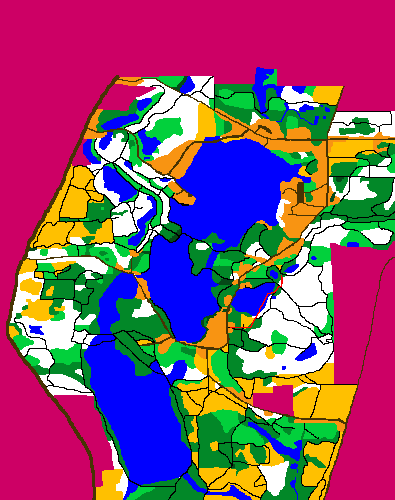
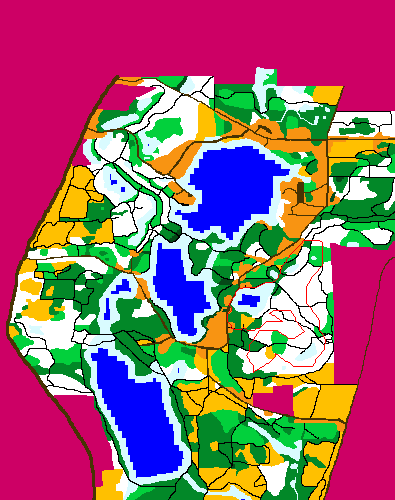
Finished!!

diff --git a/lab1/lab1.py b/lab1/lab1.py
@@ -3,7 +3,7 @@ from PIL import Image
 from PIL import ImageDraw
 import enum
 import sys
-import time
+import math
 
 
 class Terrain(enum.Enum):
@@ -17,7 +17,8 @@ class Terrain(enum.Enum):
     Paved_Road = (71, 51, 3, 255)
     Foot_path = (0, 0, 0, 255)
     Out_of_Bounds = (205, 0, 101, 255)
-    Ice_Mud = (217, 251, 255, 255)
+    Ice = (217, 251, 255, 255)
+    Mud = (173, 127, 0, 255)
 
 
 class Constants(enum.Enum):
@@ -33,9 +34,13 @@ class Node:
         self.g = 0
         self.h = 0
         self.f = 0
+        self.distance = 0
 
     def __eq__(self, other):
         return self.position == other.position
+
+    def __lt__(self, other):
+        return self.f < other.f
 
 
 # function to return the effect the terrain has on movement
@@ -68,13 +73,17 @@ def check_modifier(rgb_color):
     elif rgb_color == Terrain.Foot_path.value:
         return 0.9
     # you can run in this but like you're trying not to fall - 45%
-    elif rgb_color == Terrain.Ice_Mud.value:
+    elif rgb_color == Terrain.Ice.value:
+        return 0.45
+    # same as ice
+    elif rgb_color == Terrain.Mud.value:
         return 0.45
     # out of bounds - 0%
     else:
         return 0.0
 
 
+# function to store elevation in a 2d array
 def store_elevation(fp):
     wfile = open(fp, 'r')
     elevation = list()
@@ -88,86 +97,202 @@ def store_elevation(fp):
     return elevation
 
 
+# function to store the points to visit
 def store_waypoints(fp):
     wfile = open(fp, 'r')
     points = list()
     for line in wfile:
-        temp = list()
         word = line[:-1]
         values = word.split()
         x = int(values[0])
         y = int(values[1])
-        temp.append(x)
-        temp.append(y)
-        points.append(temp)
+        points.append((x,y))
     return points
 
 
-def calculate_g_cost(image, point1, point2, elevation):
+# function to add altercations to the map based on season
+def seasons(image, season, elevation, modifier):
+    if season == "summer":
+        return image
+    draw = ImageDraw.Draw(image)
+
+    visited = list()
+    for i in range(395):
+        temp = list()
+        for ii in range(500):
+            temp.append(False)
+        visited.append(temp)
+
+    reached_nodes = queue.Queue()
+
+    for x in range(395):
+        for y in range(500):
+            if visited[x][y]:
+                continue
+            rgb = image.getpixel((x, y))
+            if season == "winter":
+                if not check_modifier(rgb) == 0.3:
+                    new_node = Node(None, (x, y))
+                    new_node.distance = 0
+                    reached_nodes.put(new_node)
+                    visited[x][y] = True
+                    while not reached_nodes.empty():
+                        s = reached_nodes.get()
+                        for new_position in [(-1, 0), (0, 1), (1, 0), (0, -1)]:
+
+                            xPos = new_position[0] + s.position[0]
+                            if xPos < 0 or xPos >= 395:
+                                continue
+
+                            yPos = new_position[1] + s.position[1]
+                            if yPos < 0 or yPos >= 500:
+                                continue
+
+                            if visited[xPos][yPos]:
+                                continue
+
+                            rgb = image.getpixel((xPos, yPos))
+                            if not check_modifier(rgb) == 0.3 or rgb == Terrain.Out_of_Bounds.value:
+                                continue
+
+                            if s.distance == 7:
+                                continue
+
+                            new_node = Node(None, (xPos, yPos))
+                            new_node.distance = s.distance + 1
+                            reached_nodes.put(new_node)
+                            visited[xPos][yPos] = True
+                            draw.point(new_node.position, fill=Terrain.Ice.value)
+
+            elif season == "fall":
+                if rgb == Terrain.Easy_Forest.value:
+                    for new_position in [(-1, 0), (0, 1), (1, 0), (0, -1), (1, 1), (-1, -1), (-1, 1), (1, -1)]:
+
+                        xPos = new_position[0] + x
+                        if xPos < 0 or xPos >= 395:
+                            continue
+
+                        yPos = new_position[1] + y
+                        if yPos < 0 or yPos >= 500:
+                            continue
+
+                        rgb = image.getpixel((xPos, yPos))
+                        if rgb == Terrain.Easy_Forest.value:
+                            continue
+
+                        modifier[xPos][yPos] = 0.5
+
+            elif season == "spring":
+                if check_modifier(rgb) == 0.3:
+                    new_node = Node(None, (x, y))
+                    new_node.distance = 0
+                    reached_nodes.put(new_node)
+                    visited[x][y] = True
+                    while not reached_nodes.empty():
+                        s = reached_nodes.get()
+                        for new_position in [(-1, 0), (0, 1), (1, 0), (0, -1)]:
+
+                            xPos = new_position[0] + s.position[0]
+                            if xPos < 0 or xPos >= 395:
+                                continue
+
+                            yPos = new_position[1] + s.position[1]
+                            if yPos < 0 or yPos >= 500:
+                                continue
+
+                            if visited[xPos][yPos]:
+                                continue
+
+                            rgb = image.getpixel((xPos, yPos))
+                            if check_modifier(rgb) == 0.3 or rgb == Terrain.Out_of_Bounds.value:
+                                continue
+
+                            if s.distance == 15:
+                                continue
+
+                            if elevation[yPos][xPos] - elevation[s.position[1]][s.position[0]] > 1:
+                                continue
+
+                            new_node = Node(None, (xPos, yPos))
+                            new_node.distance = s.distance + 1
+                            reached_nodes.put(new_node)
+                            visited[xPos][yPos] = True
+                            draw.point(new_node.position, fill=Terrain.Mud.value)
+
+    return image, modifier
+
+
+# function to calculate the g cost for heuristic
+def calculate_g_cost(image, point1, point2, elevation, modifier):
     rgb_one = image.getpixel((point1[0], point1[1]))
     rgb_two = image.getpixel((point2[0], point2[1]))
-    mod1 = check_modifier(rgb_one)
-    mod2 = check_modifier(rgb_two)
+    mod1 = check_modifier(rgb_one) * modifier[point1[0]][point1[1]]
+    mod2 = check_modifier(rgb_two) * modifier[point2[0]][point2[1]]
 
     deltaX = Constants.xScale.value ** 2
     deltaY = Constants.yScale.value ** 2
-    deltaZ = (elevation[point2[0]][point2[1]] - elevation[point1[0]][point1[1]]) ** 2
+    deltaZ = (elevation[point2[1]][point2[0]] - elevation[point1[1]][point1[0]]) ** 2
 
     if point1[0] == point2[0]:
-        temp = (deltaY + deltaZ)/2
+        temp = math.sqrt((deltaY + deltaZ)) / 2
         return (temp / mod1) + (temp / mod2)
 
     elif point1[1] == point2[1]:
-        temp = (deltaX + deltaZ) / 2
+        temp = math.sqrt((deltaX + deltaZ)) / 2
         return (temp / mod1) + (temp / mod2)
 
     else:
-        temp = (deltaX + deltaY + deltaZ)/2
+        temp = math.sqrt((deltaX + deltaY + deltaZ)) / 2
         return (temp / mod1) + (temp / mod2)
 
 
+# function to calculate the h cost for heuristic
 def calculate_h_cost(child, end):
     deltaX = (end[0] - child[0]) * Constants.xScale.value
     deltaY = (end[1] - child[1]) * Constants.yScale.value
 
-    return (deltaX ** 2) + (deltaY ** 2)
+    return math.sqrt((deltaX ** 2) + (deltaY ** 2))
 
 
-def traversal_loop(image, waypoints, elevation, fileName):
-    start_time = time.time()
+def traversal_loop(image, waypoints, elevation, fileName, season):
+
+    modifier = list()
+    for j in range(395):
+        temp = list()
+        for k in range(500):
+            temp.append(1.0)
+        modifier.append(temp)
+
     ori = Image.open(image)
+    ori, modifier = seasons(ori, season, elevation, modifier)
     im = ori.copy()
     draw = ImageDraw.Draw(im)
 
-    open_nodes = list()
-    close_nodes = list()
+    open_nodes = queue.PriorityQueue()
 
-    start = Node(None, [waypoints[0][0], waypoints[0][1]])
+    start = Node(None, (waypoints[0][0], waypoints[0][1]))
     start.f = start.g = start.h = 0
     waypoints.pop(0)
 
-    open_nodes.append(start)
+    open_nodes.put(start)
 
     for i in waypoints:
-        end = Node(None, [i[0], i[1]])
+        points = list()
+        for j in range(395):
+            temp = list()
+            for k in range(500):
+                temp.append(False)
+            points.append(temp)
 
-        print(f"start: {start.position} end: {end.position}")
+        end = Node(None, i)
 
-        while len(open_nodes) > 0 and (time.time() - start_time) < 75.0:
-            current = open_nodes[0]
-            curr_index = 0
-            for index, item in enumerate(open_nodes):
-                if item.f < current.f:
-                    current = item
-                    curr_index = index
-            open_nodes.pop(curr_index)
-            close_nodes.append(current)
+        current = start
+        while not current == end:
 
-            if current == end:
-                break
+            current = open_nodes.get()
 
             children = list()
-            for new_position in [(-1, 0), (0, 1), (1, 0), (0, -1)]:
+            for new_position in [(-1, 0), (0, 1), (1, 0), (0, -1), (1, 1), (-1, -1), (1, -1), (-1, 1)]:
 
                 xPos = new_position[0] + current.position[0]
                 if xPos < 0 or xPos >= 395:
@@ -175,6 +300,9 @@ def traversal_loop(image, waypoints, elevation, fileName):
 
                 yPos = new_position[1] + current.position[1]
                 if yPos < 0 or yPos >= 500:
+                    continue
+
+                if points[xPos][yPos]:
                     continue
 
                 rgb = ori.getpixel((xPos, yPos))
@@ -186,50 +314,32 @@ def traversal_loop(image, waypoints, elevation, fileName):
 
             for child in children:
 
-                child.g = calculate_g_cost(ori, current.position, child.position, elevation) + current.g
+                child.g = calculate_g_cost(ori, current.position, child.position, elevation, modifier) + current.g
                 child.h = calculate_h_cost(child.position, end.position)
                 child.f = child.g + child.h
 
-                addChild = 1
+                open_nodes.put(child)
+                points[child.position[0]][child.position[1]] = True
 
-                for seen in open_nodes:
-                    if child == seen:
-                        if seen.f < child.f:
-                            addChild = 0
-                        elif seen.f > child.f:
-                            seen.f = child.f
-                            seen.g = child.g
-                            seen.parent = child.parent
-                            addChild = 0
+        start = Node(None, end.position)
+        start.f = start.g = start.h = 0
 
-                for seen in close_nodes:
-                    if child == seen:
-                        if seen.f < child.f:
-                            addChild = 0
-                if addChild:
-                    open_nodes.append(child)
+        open_nodes = queue.PriorityQueue()
+        open_nodes.put(start)
 
-        new_start = Node(None, end.position)
-        new_start.f = new_start.g = new_start.h = 0
-        open_nodes.clear()
-        open_nodes.append(new_start)
-
-        print(close_nodes)
-        current = close_nodes.pop(-1)
         while current is not None:
             draw.point(current.position, fill=(255, 0, 0, 255))
             current = current.parent
-        # close_nodes.clear()
-
     im.save(fileName)
     im.show()
 
 
 def main():
+
     elevation = store_elevation(sys.argv[2])
     waypoints = store_waypoints(sys.argv[3])
 
-    traversal_loop(sys.argv[1], waypoints, elevation, sys.argv[5])
+    traversal_loop(sys.argv[1], waypoints, elevation, sys.argv[5], sys.argv[4])
 
 
 if __name__ == "__main__":
